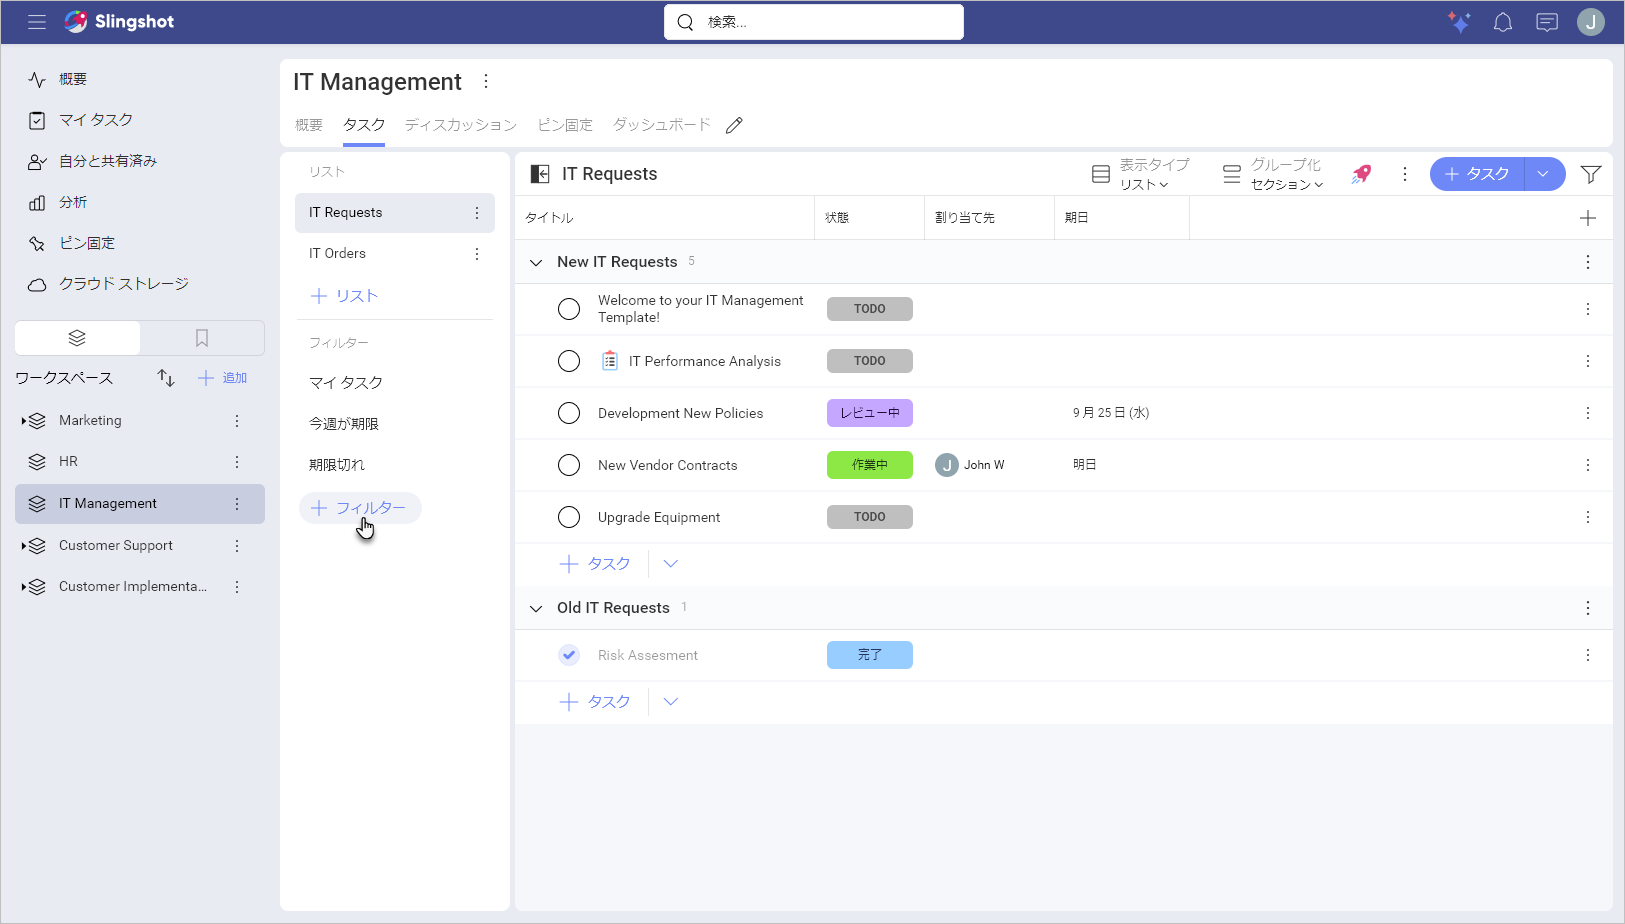
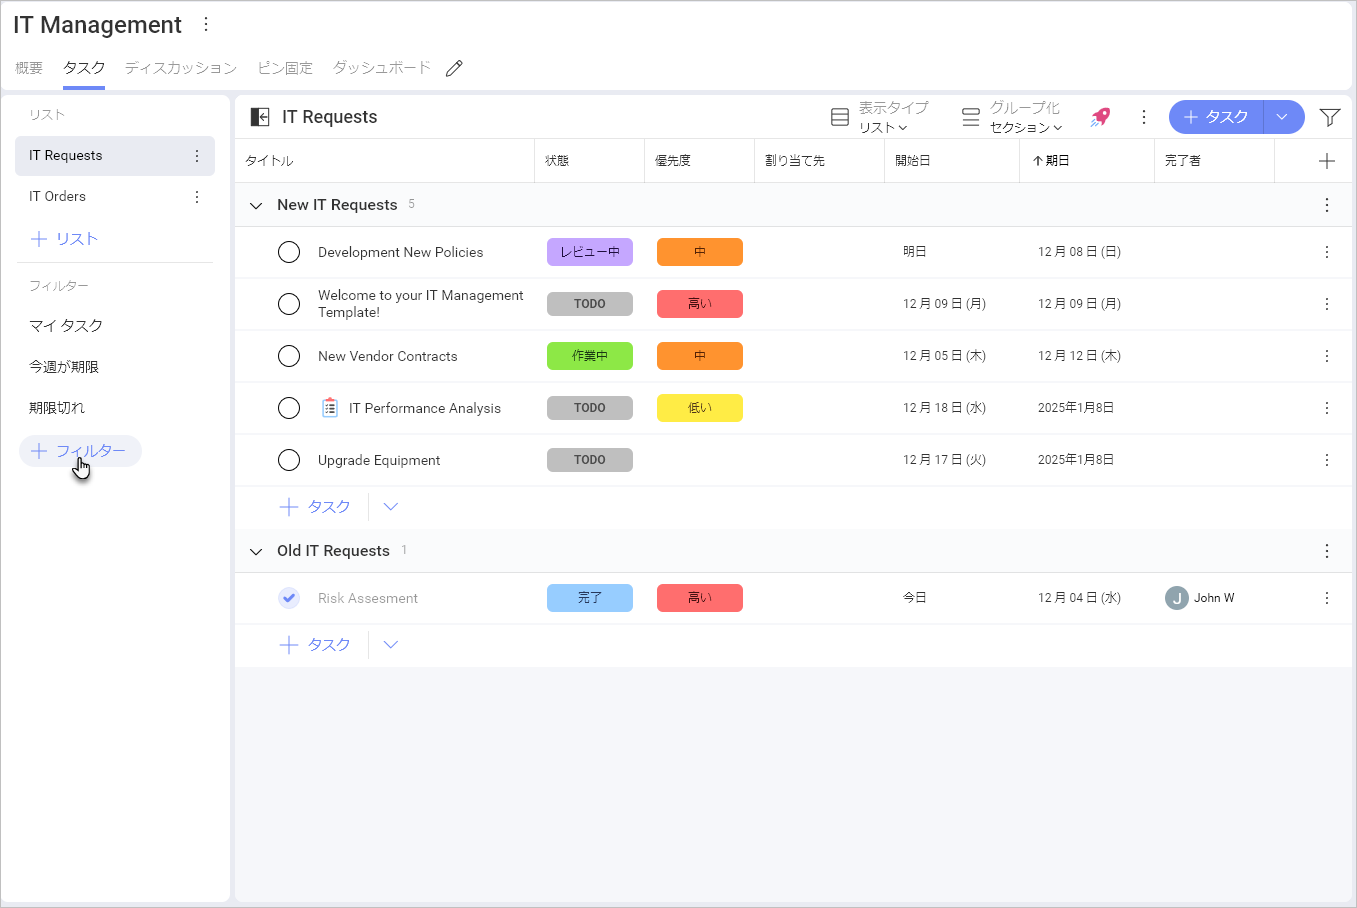
November release notes, minor localization fixes.

diff --git a/docfx/jp/docs/tasks.md b/docfx/jp/docs/tasks.md
@@ -32,7 +32,7 @@ Slingshot でタスクを作成する方法は複数あります:
 
 ## タスク フィールド  
 
-タスクは、チームやプロジェクトの生産性を高めるために非常に重要です。タスク カードには次のフィールドがあります:
+タスクは、チームやプロジェクトの生産性を高めるために非常に重要です。[カスタム フィールド](custom-fields.md)が追加されていないタスク カードには、次のフィールドがあります:
 
 <img src="../images/task-fields.png" alt="Task card with all fields highlighted within Slingshot" width="70%" class="responsive-img"/>
 
@@ -60,6 +60,18 @@ Slingshot でタスクを作成する方法は複数あります:
 
 <img src="../images/task-fields-subtasks-dependencies.png" alt="Subtasks and dependencies in a task card" width="70%" class="responsive-img"/>
 
+### デフォルトのタスク フィールド
+
+タスクをより適切に整理するには、デフォルトのタスク フィールドを使用できます。デフォルトのタスク フィールドのリストを開くには、タスク リストの右上隅にある**プラス** ボタンをクリックまたはタップしてください。
+
+<img src="../images/default-task-fields.png" alt="Default Task fields in a task list" width="70%" class="responsive-img"/>
+
+ここでは、次のフィールドから選択できます。**完了、状態、優先度、担当者、開始日、期限、添付、依存関係、作成日、説明、完了日**、および**完了者**。
+
+### カスタム タスク フィールド
+
+カスタムフィールドを使用して、タスクを内部の業務プロセスにより適合させることができます。カスタム フィールドの詳細については、[こちら](custom-fields.md)をクリックまたはタップしてください。
+
 ### タスクの説明
 
 タスクの説明セクションでは、さまざまなテキスト書式設定ツールを使用して、タスクに関する詳細を追加できます。URL や絵文字を追加することもできます。
@@ -86,7 +98,7 @@ Slingshot でタスクを作成する方法は複数あります:
 
  <img src="../images/duplicate-task-filters.png" alt="Dialog with task duplication filters" width="80%" class="responsive-img"/>
 
-5.	設定を保存すると、タスク フィールドが表示され変更できます。
+5.	設定を保存すると、カード フィールドが表示され変更できます。
 
  <img src="../images/duplicate-task-example.png" alt="Example of a duplicate task and its fields" width="80%" class="responsive-img"/>
 
@@ -100,7 +112,7 @@ Slingshot でタスクを作成する方法は複数あります:
 
 ## タスクの表示タイプ
 
-4 つの表示タイプ (カレンダー、リスト、カンバン、タイムライン) から選択して、利便性ユーティリティを最大化するために異なるレイアウトを利用できます。表示タイプを切り替えるには、**[表示設定]** ドロップダウン メニュー (タスク リストの右上) を使用します。  
+4 つの表示タイプ (カレンダー、リスト、カンバン、タイムライン) から選択して、利便性ユーティリティを最大化するために異なるレイアウトを利用できます。**[表示タイプ]** ドロップダウン メニューを使用してビューを切り替えます。
 
 各タスク ビュー内で、チームの目標に最も適した方法でタスクをフィルタリングできます。
 

diff --git a/docfx/jp/docs/analytics/data-visualizations/visualization-types/choropleth-map/location-data-requirements.md b/docfx/jp/docs/analytics/data-visualizations/visualization-types/choropleth-map/location-data-requirements.md
@@ -73,9 +73,9 @@ _language: ja
 
 ### 一般的なトラブルシューティングのヒント
 
-- *問題の特定*できる限り問題を特定します。たとえば、特定の場所を使用できない場合は、別の場所または別のデータ ソースを使用してみてください。問題を特定するには、一度に多くの設定を変更するのではなく、特定の設定を変更して結果を観察します。
+- **問題の特定**できる限り問題を特定します。たとえば、特定の場所を使用できない場合は、別の場所または別のデータ ソースを使用してみてください。問題を特定するには、一度に多くの設定を変更するのではなく、特定の設定を変更して結果を観察します。
 
-- *実行した手順を記録*トラブルシューティングを開始したら、実際に行った手順を記録しておきます。実行した手順を記録し、再現できることにより、問題の特定を効率的に行うことができます。
+- **実行した手順を記録**トラブルシューティングを開始したら、実際に行った手順を記録しておきます。実行した手順を記録し、再現できることにより、問題の特定を効率的に行うことができます。
 
 <a name='data-not-in-english'></a>
 ## データ ソースが英語ではありません

diff --git a/docfx/jp/docs/release-notes.md b/docfx/jp/docs/release-notes.md
@@ -1,5 +1,19 @@
 # リリース ノート
 
+### 1.0.3175 (2024 年 11 月)
+
+#### 新機能
+
+- 改善されたデフォルトのタスク フィールド リスト: ユーザーは、**完了者**と**完了日**を使用してタスクを整理できるようになりました。
+
+#### バグ修正と実装改善
+
+- [バグ修正] グローバル検索で担当者フィルター値が消える問題を修正しました。
+
+- [バグ修正] Android で一部のチャット メッセージが誤ってリンクに変換される問題を修正しました。
+
+- [バグ修正] 数値カスタム フィールドを使用している場合に、アクティビティ領域に誤った値が表示される問題を修正しました。
+
 ### 1.0.3120 (2024 年 9 月)
  
 #### 新機能
@@ -76,7 +90,7 @@
 
 - タスク フィルターの改善 
 
-- データソースの新しいアイコン
+- データ ソースの新しいアイコン
 
 - ワークスペース、プロジェクト、ダッシュボード用のすぐに使えるテンプレート
 

diff --git a/docfx/jp/docs/bookmarks.md b/docfx/jp/docs/bookmarks.md
@@ -24,7 +24,7 @@
 
 ## ブックマークできる項目
 
-タスク、リンク、チャット メッセージ、ディスカッションからワークスペース、プロジェクト、データソース、ダッシュボードまで、すばやくアクセスしたいもの全てをブックマークすることができます。保存した項目が **[ブックマーク]** にある場合、保存された項目に基づいてオーバーフロー メニューから直接さまざまな操作を実行できます。
+タスク、リンク、チャット メッセージ、ディスカッションからワークスペース、プロジェクト、データ ソース、ダッシュボードまで、すばやくアクセスしたいもの全てをブックマークすることができます。保存した項目が **[ブックマーク]** にある場合、保存された項目に基づいてオーバーフロー メニューから直接さまざまな操作を実行できます。
 
 ## ブックマーク リストから項目を削除する方法
 

diff --git a/docfx/jp/docs/analytics/filters/overview.md b/docfx/jp/docs/analytics/filters/overview.md
@@ -20,13 +20,13 @@ Analytics は、日付範囲をダッシュボード フィルターとして有
 
   - [ダッシュボード フィルターの構成可能なプロパティ](dashboard-filters-properties.md):
 
-      - [表示フィールド](dashboard-filters-properties.md#displayed-field)
+      - [表示フィールド](dashboard-filters-properties.md#表示フィールド)
 
-      - [複数選択](dashboard-filters-properties.md#multiple-selection)
+      - [複数選択](dashboard-filters-properties.md#複数選択)
 
-      - [必須選択](dashboard-filters-properties.md#required-selection)
+      - [必須選択](dashboard-filters-properties.md#必須選択)
 
-      - [データ フィルター](dashboard-filters-properties.md#data-filters)
+      - [データ フィルター](dashboard-filters-properties.md#データ-フィルター)
 
   - [ダッシュボード フィルターと表示形式への接続](connecting-dashboard-filters-visualization.md) (表示形式バインディングとも呼ばれます)
 

diff --git a/docfx/jp/docs/analytics/data-visualizations/visualization-types/combo-charts.md b/docfx/jp/docs/analytics/data-visualizations/visualization-types/combo-charts.md
@@ -34,7 +34,7 @@ _language: ja
 
   - **一方または両方のチャートの表示形式タイプを変更できます**。
 
-    7 つの使用可能なタイプ(柱状、積層型柱状、エリア、折れ線、ステップ エリア、ステップ折れ線、スプライン エリア) から選択できます。
+    7 つの使用可能なタイプ (柱状、積層型柱状、エリア、折れ線、ステップ エリア、ステップ折れ線、スプライン エリア) から選択できます。
 
   - **リニア スケールまたは対数を選択できます**。
 
@@ -52,4 +52,4 @@ _language: ja
 
     Analytics は、背面に表示されるチャートに不透明度を適用し、より透明にします。
 
-  - **[この表示形式を別のダッシュボードまたは URL に接続します](../../dashboards/dashboard-linking.md)**
+  - **[この表示形式を別のダッシュボードまたは URL に接続できます。](../../dashboards/dashboard-linking.md)**

diff --git a/docfx/jp/docs/analytics/my-analytics.md b/docfx/jp/docs/analytics/my-analytics.md
@@ -14,7 +14,7 @@ Slingshot の **[分析]** セクションを使用すると、BI (ビジネス 
 
 - **ダッシュボード** – ダッシュボードを作成または共有して、チームがデータを活用し、生産性を向上できるようにします。複数のデータ ソースを 1 つのダッシュボードに統合して、すべての情報を 1 か所にまとめます。
 
-- **データソース** - コンテンツ マネージャー、クラウド サービス、CRM、データベース、スプレッドシートなど、データの送信元に直接接続します。
+- **データ ソース** - コンテンツ マネージャー、クラウド サービス、CRM、データベース、スプレッドシートなど、データの送信元に直接接続します。
 
 - **データ カタログ** - データ カタログのリストから、会社に関する最も信頼できる情報を見つけます。データは分類され、認証されます。
 
